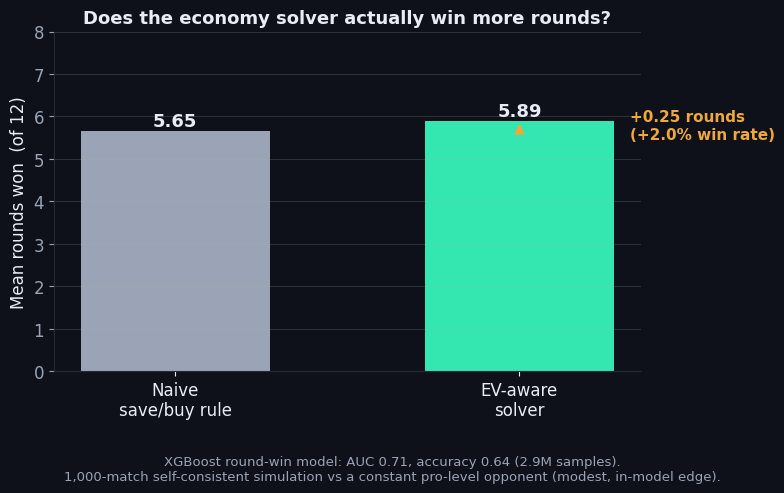
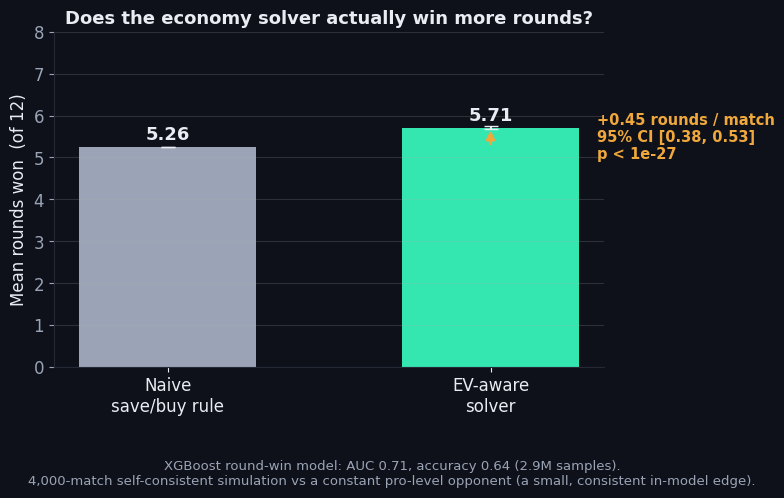
Valorant: rigorous CI result; ABM card plain-English caption + tooltip

diff --git a/index.html b/index.html
@@ -94,7 +94,10 @@
   .card h3{font-size:20px;font-weight:600}
   .card .role{color:var(--faint);font-size:13.5px;margin:3px 0 12px}
   .card .desc{color:var(--muted);font-size:14px;flex:1}
-  .metric{margin:14px 0 12px;font-size:13px;color:var(--a3);font-weight:600;font-family:"Space Grotesk"}
+  .metric{margin:14px 0 6px;font-size:13px;color:var(--a3);font-weight:600;font-family:"Space Grotesk"}
+  .metric.help{cursor:help;border-bottom:1px dotted var(--faint);display:inline-block}
+  .plain{margin:0 0 12px;font-size:12px;color:var(--muted);line-height:1.45}
+  .plain b{color:var(--text);font-weight:600}
   .tags{display:flex;flex-wrap:wrap;gap:7px;margin-bottom:16px}
   .tag{font-size:11.5px;color:var(--muted);background:var(--bg2);border:1px solid var(--line);padding:4px 9px;border-radius:7px}
   .links{display:flex;gap:10px;flex-wrap:wrap}
@@ -230,7 +233,8 @@
           <h3>Generative Opinion Dynamics in Skyrim</h3>
           <div class="role">Emergent political belief &amp; generative NPC dialogue</div>
           <div class="desc">A stochastic agent-based model that evolves the political opinions of 1,010 named <em>Skyrim</em> NPCs through the Civil War: bounded-confidence influence, out-group repulsion, zealot anchoring, and a hold-clustered social network. To prove the social machinery (not the events) drives the outcome, it is tested against an <em>energy-matched</em> null with identical shocks: the structured model produces sharp echo chambers the null cannot. The emergent opinion of each character then conditions a local language model that voices them.</div>
-          <div class="metric">Beats an energy-matched null: separation 0.41 vs 0.24 · neutral-zone &lt;1% vs 21% · KS D = 0.37 · 1,010 NPCs</div>
+          <div class="metric help" title="Separation: how far the two campaigns' average opinions end up apart (0.41 with the social model vs 0.24 without). Neutral-zone: share of NPCs left undecided (under 1% vs 21%). KS D: how different the two outcome distributions are, on a 0-to-1 scale — 0.37 is large.">Beats an energy-matched null: separation 0.41 vs 0.24 · neutral-zone &lt;1% vs 21% · KS D = 0.37 · 1,010 NPCs</div>
+          <div class="plain">In plain English: I re-ran the model with the social rules replaced by random motion of the <b>same size</b>. The realism disappeared — NPCs no longer took clear sides and the two campaigns barely diverged. So the believable structure is produced by the model, not by chance or the battles.</div>
           <div class="tags">
             <span class="tag">R</span><span class="tag">Agent-Based Modeling</span><span class="tag">Opinion Dynamics</span><span class="tag">SLM · Ollama</span><span class="tag">Monte Carlo</span>
           </div>
@@ -251,7 +255,7 @@
           <h3>Stochastic Valorant Shotcaller</h3>
           <div class="role">MILP + ML + MDP team-economy optimizer</div>
           <div class="desc">A data-driven economy optimizer for <em>Valorant</em>: a Mixed-Integer Linear Program (SciPy HiGHS) assigns team-wide loadouts, an XGBoost model trained on 2.9M round samples predicts round-win probability, and a Markov Decision Process solved by backward induction factors long-term economy value. An LLM layer adds context-aware tactical constraints. In a held-out simulation the EV-aware solver beats a naive save/buy rule by a small but consistent margin. Deployed as a live interactive app.</div>
-          <div class="metric">XGBoost AUC 0.71 · EV-aware solver +2.0% win rate vs naive (1,000-match sim) · live app</div>
+          <div class="metric">XGBoost AUC 0.71 · solver +0.45 rounds/match vs naive (95% CI 0.38 to 0.53; 4,000-match sim) · live app</div>
           <div class="tags">
             <span class="tag">Python</span><span class="tag">MILP · HiGHS</span><span class="tag">XGBoost</span><span class="tag">MDP</span><span class="tag">Streamlit</span><span class="tag">LLM</span>
           </div>